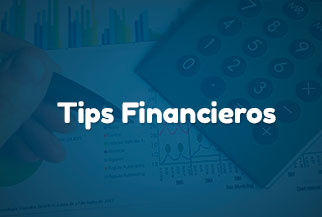
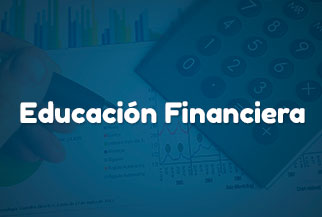
change style slide

Changed region(s): [[0.0621, 0.4424, 0.9627, 0.6083]]

diff --git a/vistas/css/slide.css b/vistas/css/slide.css
@@ -64,7 +64,7 @@ SLIDE
 
 #slide .slideOpciones h1{	
 	text-transform: uppercase;
-	font-family: 'Ubuntu Condensed', sans-serif;
+	font-family: 'Lato', sans-serif;
 	opacity:1;
 	top:-10%;
 	/*color:#333;*/
@@ -72,7 +72,7 @@ SLIDE
 
 #slide .slideOpciones h2{
 	text-transform: uppercase;
-	font-family: 'Ubuntu Condensed', sans-serif;
+	font-family: 'Lato', sans-serif;
 	opacity:1;
 	top:-10%;
 	/*color:#777;*/
@@ -80,7 +80,7 @@ SLIDE
 
 #slide .slideOpciones h3{
 	text-transform: uppercase;
-	font-family: 'Ubuntu Condensed', sans-serif;
+	font-family: 'Lato', sans-serif;
 	opacity:1;
 	top:-10%;
 	/*color:#888;*/
@@ -193,16 +193,16 @@ ESCRITORIO GRANDE (LG revisamos en 1366px en adelante)
 	}
 
 	#slide .slideOpciones h1{			
-		font-size:50px;	
+		font-size:35px;
 		margin-top:5px;
 	}
 
 	#slide .slideOpciones h2{			
-		font-size:35px;	
+		font-size:25px;
 	}
 
 	#slide .slideOpciones h3{	
-		font-size:30px;	
+		font-size:20px;
 	}
 
 	#slide .slideOpciones button{

diff --git a/vistas/js/productos.js b/vistas/js/productos.js
@@ -1,8 +1,25 @@
     $("#menu li a").on('click', function (e) {
         e.preventDefault()
         var page = $(this).data('page');
+        console.log(page);
         $("#pages .page:not('.hide')").stop().fadeOut('fast', function () {
             $(this).addClass('hide');
             $('#pages .page[data-page="' + page + '"]').fadeIn('slow').removeClass('hide');
         });
     });
+
+
+    var pathname = window.location.pathname.split('/'); // Returns path only
+    console.log(pathname[2]);
+    false;
+
+    $("#pages .page:not('.hide')").stop().fadeOut('fast', function () {
+        $(this).addClass('hide');
+        $('#pages .page[data-page="' + pathname[2] + '"]').fadeIn('slow').removeClass('hide');
+    });
+
+
+
+
+
+

diff --git a/vistas/scss/estilos.css b/vistas/scss/estilos.css
@@ -727,8 +727,7 @@ EMPIEZAN LAS MEDIAS QUERIES
 
   .boton-buscar {
     margin-left: 1rem;
-    margin-right: 0;
-    order: 2; }
+    margin-right: 0; }
 
   #bloque-buscar {
     order: 3;
@@ -823,13 +822,15 @@ EMPIEZAN LAS MEDIAS QUERIES
 
   .tu-mejor-eleccion ul li p {
     font-size: .85rem;
-    width: 100%; } }
+    width: 100%; }
+
+  .boton-buscar {
+    margin-left: 1rem;
+    margin-right: 0;
+    order: 2; } }
 @media (max-width: 767px) {
   .col-xs-0 {
     display: none; }
-
-  .servicios img {
-    width: 60px; }
 
   .bienvenidos {
     padding: 0; }

diff --git a/vistas/scss/estilos.scss b/vistas/scss/estilos.scss
@@ -852,7 +852,7 @@ EMPIEZAN LAS MEDIAS QUERIES
   .boton-buscar {
     margin-left: 1rem;
     margin-right: 0;
-    order: 2
+    //order: 2
   }
   #bloque-buscar {
     order: 3;
@@ -953,6 +953,12 @@ EMPIEZAN LAS MEDIAS QUERIES
     font-size: .85rem;
     width: 100%
   }
+
+  .boton-buscar {
+    margin-left: 1rem;
+    margin-right: 0;
+    order: 2
+  }
  
 
 }
@@ -964,7 +970,7 @@ EMPIEZAN LAS MEDIAS QUERIES
   }
 
 .servicios img{
-  width: 60px;
+  //width: 60px;
 }
 
 .bienvenidos {

diff --git a/vistas/modulos/inicioProductos.php b/vistas/modulos/inicioProductos.php
@@ -23,7 +23,7 @@ $social = ControladorPlantilla::ctrlEstiloPlantilla();
                                  alt="beneficios" >
                             </div>
                         <h4 class="text-center">
-                                <a href="productos" class="center-block">Capital de Trabajo</a>
+                                <a href="servicio1#productosList" class="center-block">Capital de Trabajo</a>
                         </h4>
 
                     </div>
@@ -36,7 +36,7 @@ $social = ControladorPlantilla::ctrlEstiloPlantilla();
                                  alt="beneficios">
                         </div>
 
-                        <h4 class="text-center"> <a class="center-block" href="productos">Activo Productivo</a> </h4>
+                        <h4 class="text-center"> <a class="center-block" href="servicio2#productosList">Activo Productivo</a> </h4>
 
 
 
@@ -61,7 +61,7 @@ $social = ControladorPlantilla::ctrlEstiloPlantilla();
                         </div>
                         <h4 CLASS="text-center">
 
-                            <a href="productos" CLASS="center-block">Mejora de Negocio</a>
+                            <a href="servicio3#productosList" CLASS="center-block">Mejora de Negocio</a>
                         </h4>
                      
                     </div>
@@ -75,7 +75,7 @@ $social = ControladorPlantilla::ctrlEstiloPlantilla();
                         </div>
                         <h4 class="text-center">
 
-                            <a href="productos" class="center-block">CrediActivos</a></h4>
+                            <a href="servicio4#productosList" class="center-block">CrediActivos</a></h4>
                         <p class="hidden-md-down">
                         <div class="block-ellipsis contenedor-text col-lg-12">
 <!--                            --><?php //echo $dataProductos["crediActivos"]; ?>

diff --git a/vistas/modulos/productos.php b/vistas/modulos/productos.php
@@ -1,11 +1,6 @@
 <?php
 $dataProducto  = ControladorProducto::ctrMostrarProductos();
 
-
-
-
-
-
 ?>
 
 <div class="paginas-internas">
@@ -15,7 +10,7 @@ $dataProducto  = ControladorProducto::ctrMostrarProductos();
 
 
 
-        <div class="texto-encabezado text-center">
+        <div  id="productosList" class="texto-encabezado text-center">
 
             <div class="container">
                 <!--                <h1>--><?php //echo $dataProducto['titulo']; ?><!--</h1>-->
@@ -26,8 +21,8 @@ $dataProducto  = ControladorProducto::ctrMostrarProductos();
         </div>
 
     </section>
-    <section class="ruta py-1">
-        <div class="container">
+    <section  class="ruta py-1">
+        <div  class="container">
             <div class="row">
                 <div class="col-xs-12 text-right">
                     <a href="index.php">Inicio</a> » Productos
@@ -37,7 +32,7 @@ $dataProducto  = ControladorProducto::ctrMostrarProductos();
         </div>
     </section>
 
-    <main class="py-1">
+    <main  class="py-1">
         <div class="container">
             <div class="row">
 
@@ -57,10 +52,6 @@ $dataProducto  = ControladorProducto::ctrMostrarProductos();
                         </ul>
                         <br>
                     </div>
-
-
-
-
 
 
                 </div>

diff --git a/vistas/modulos/piedepagina.php b/vistas/modulos/piedepagina.php
@@ -50,10 +50,10 @@ $dataTarifaContrato = ControladorTarifaContrato::ctrGetTarifaContrato();
 
                 <div class="col-md-6">
 
-                    <li><a href="#">Capital de trabajo</a></li>
-                    <li><a href="#">Activo Productivo</a></li>
-                    <li><a href="#">Mejora de Negocio</a></li>
-                    <li><a href="#">CrediActivos</a></li>
+                    <li><a href="productos">Capital de trabajo</a></li>
+                    <li><a href="productos">Activo Productivo</a></li>
+                    <li><a href="productos">Mejora de Negocio</a></li>
+                    <li><a href="productos">CrediActivos</a></li>
                     <li><a href="tarContrato">Contrato</a></li>
                     <li><a href="tarContrato">EEFF</a></li>
                     <?php if ($dataTarifaContrato["tarifarioEstado"] == 1) { ?>

diff --git a/vistas/plantilla.php b/vistas/plantilla.php
@@ -98,9 +98,17 @@ if (isset($_GET['ruta'])) {
     elseif ($rutas[0]=="contacto"){
         include "modulos/contacto.php";
     }
-        elseif ($rutas[0]=="productos"){
+        elseif (($rutas[0]=="productos") ||
+            ($rutas[0]=="servicio1") ||
+            ($rutas[0]=="servicio2")||
+            ($rutas[0]=="servicio3")||
+            ($rutas[0]=="servicio4")
+
+        ){
         include "modulos/productos.php";
     }
+
+
     elseif ($rutas[0]=="tips"){
         include "modulos/tipsFinancieros.php";
     }

diff --git a/vistas/modulos/inicioVarios.php b/vistas/modulos/inicioVarios.php
@@ -2,7 +2,7 @@
 $servidor = Ruta::ctrlRutaServidor();
 $social = ControladorPlantilla::ctrlEstiloPlantilla();
 ?>
-    <main class="servicios py-1">
+    <main class="servicios py-1 center-block">
         <div class="container">
 
 
